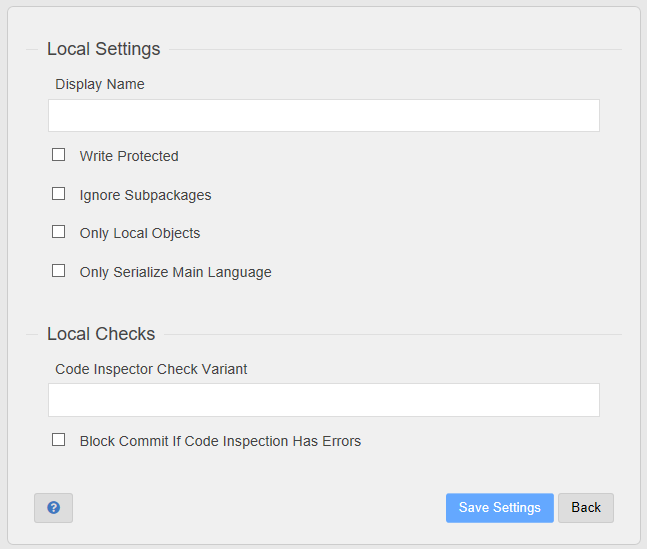
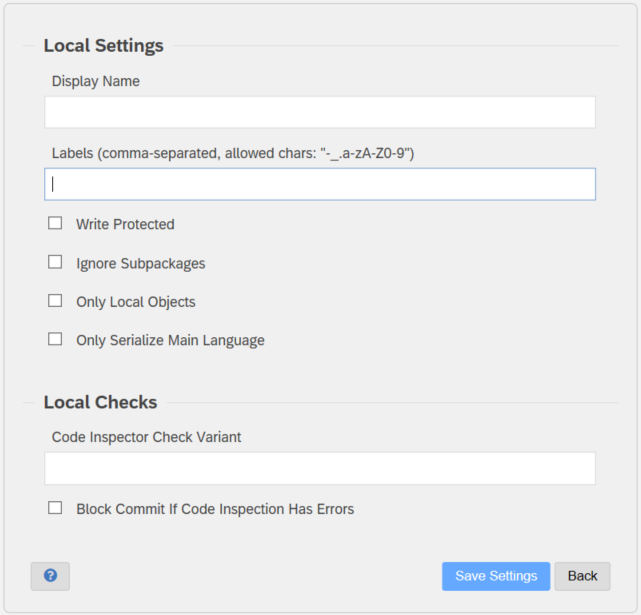
docs for labels

diff --git a/docs/guide-settings-personal.md b/docs/guide-settings-personal.md
@@ -9,10 +9,9 @@ settings from the repository list or repository view by selecting "Settings > Pe
 
 ![](img/settings-personal-0.png)
 
-Note: Personal settings are relevant all of your repositories.
+Note: Personal settings are relevant to all of your repositories.
 
 ![](img/settings-personal-1.png)
-![](img/settings-personal-2.png)
 
 ## Startup
 
@@ -20,23 +19,25 @@ If you turn on "Show Last Opened Repository", abapGit will jump directly to the 
 
 ## User Interface
 
-You can switch the theme for abapGit between several choices: Default, Dark, and Belize. Alternatively, you can select "Synced with SAP GUI" to use the same theme
+You can switch the **Theme** for abapGit between several choices: Default, Dark, and Belize. Alternatively, you can select "Synced with SAP GUI" to use the same theme
 you are using for SAP GUI (availability depends on SAP GUI release).
 
-The size of icons can be changed using "icon scaling". The setting is intended for [High DPI displays](https://doc.qt.io/qt-5/highdpi.html).
+The size of icons can be changed using **Icon scaling**. The setting is intended for [High DPI displays](https://doc.qt.io/qt-5/highdpi.html).
 
-"List Size" defines the maximum number of items shown in a list. If there are more items, then abapGit start paging.
+**List Size** defines the maximum number of items shown in a list. If there are more items, then abapGit start paging.
+
+**Repo label colors** allows you to customize colors of organization labels ni repo overview page. The format of of the configuration is: `"label1:color,label2:color"`. Color param accepts either HTML colors (red,green,aliceblue...) or rgb color spec (#aa6700)
 
 ## Interaction
 
 Typically, when objects are changed, the system will display a popup to confirm the activation of objects. This gives the change to address syntax errors, for example.
-If you want objects to be activated automatically, select "Activate Objects Without Popup". If there are syntax errors, abapGit will indicate this with an icon next to
+If you want objects to be activated automatically, select **Activate Objects Without Popup**. If there are syntax errors, abapGit will indicate this with an icon next to
 the objects in the repository view.
 
-If you are using ABAP Development Tools (ADT) in Eclipse, we recommend to turn on "Enable Jump to ABAP Development Tools". Clicking on objects names in abapGit will then
+If you are using ABAP Development Tools (ADT) in Eclipse, we recommend to turn on **Enable Jump to ABAP Development Tools**. Clicking on objects names in abapGit will then
 open the object in ADT (if available).
 
-"Enable Vimium-like Link Hints" and "Key to Activate Link Hints" provide a feature similarly to the [Vimium browser](https://vimium.github.io/). After pressing the
+**Enable Vimium-like Link Hints** and **Key to Activate Link Hints** provide a feature similarly to the [Vimium browser](https://vimium.github.io/). After pressing the
 activation key (default "f"), abapGit will uses a clever highlighting method to navigate using links.
 
 ![](img/settings-personal-3.png)
@@ -48,6 +49,8 @@ activation key (default "f"), abapGit will uses a clever highlighting method to 
 The standalone version does not support any parallel processing. Objects of a repository are serialized sequentially.
 
 ### Developer Version
+
+**Disable parallel processing**
 
 The developer version of abapGit will try to use parallel processing to serialize objects of a repository. As a prerequisite, logon group `parallel_generators` (lower case) must be configured in transaction `RZ12`. If sufficient system resources are available, abapGit will use multiple threads to serialize objects.
 

diff --git a/docs/settings-local.md b/docs/settings-local.md
@@ -14,6 +14,10 @@ The following settings are stored in and valid for the current system only.
 
 This setting overwrites the default name of the repository (which is derived from the later part of the repository URL).
 
+### Labels
+
+Labels allow to organize your repos and group/filter them more efficiently. Specify label list separated with commas. Note allowed character set (e.g. no special symbols allowed). Example: `"work,clientX"`.
+
 ### Write Protected
 
 If you write protect a repository, it will make sure that users cannot overwrite objects in the SAP system with objects from the  repository. It helps enforcing that data can only go from the SAP system to the repository.
